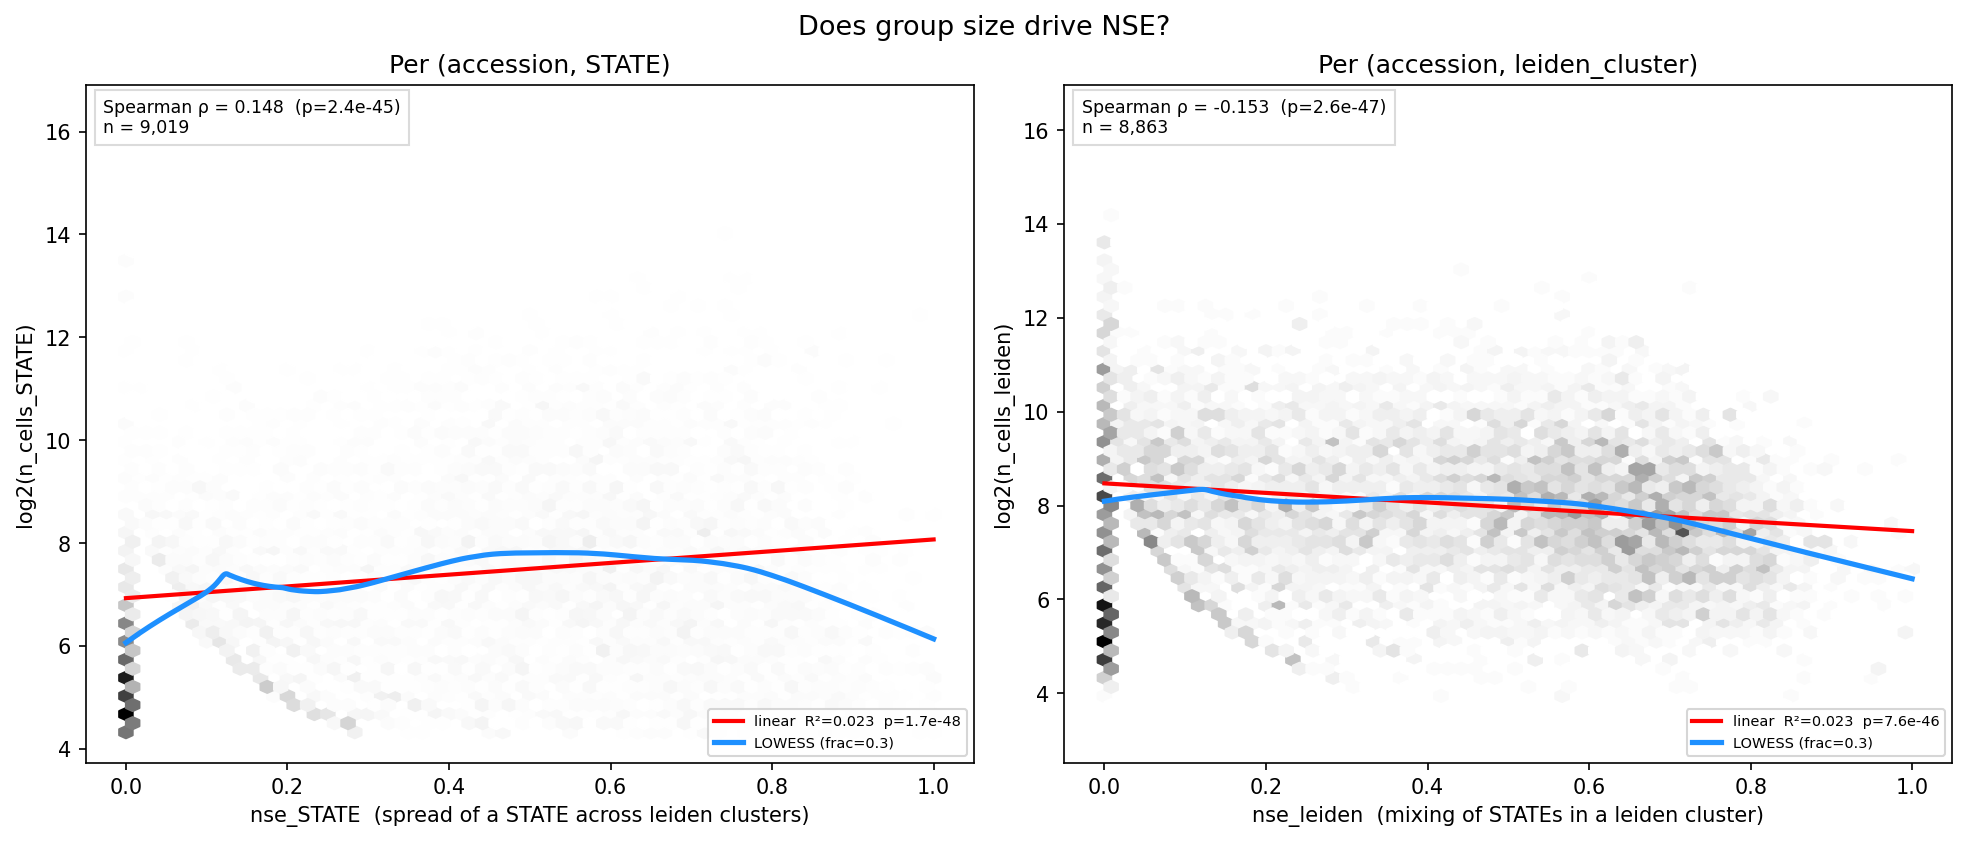
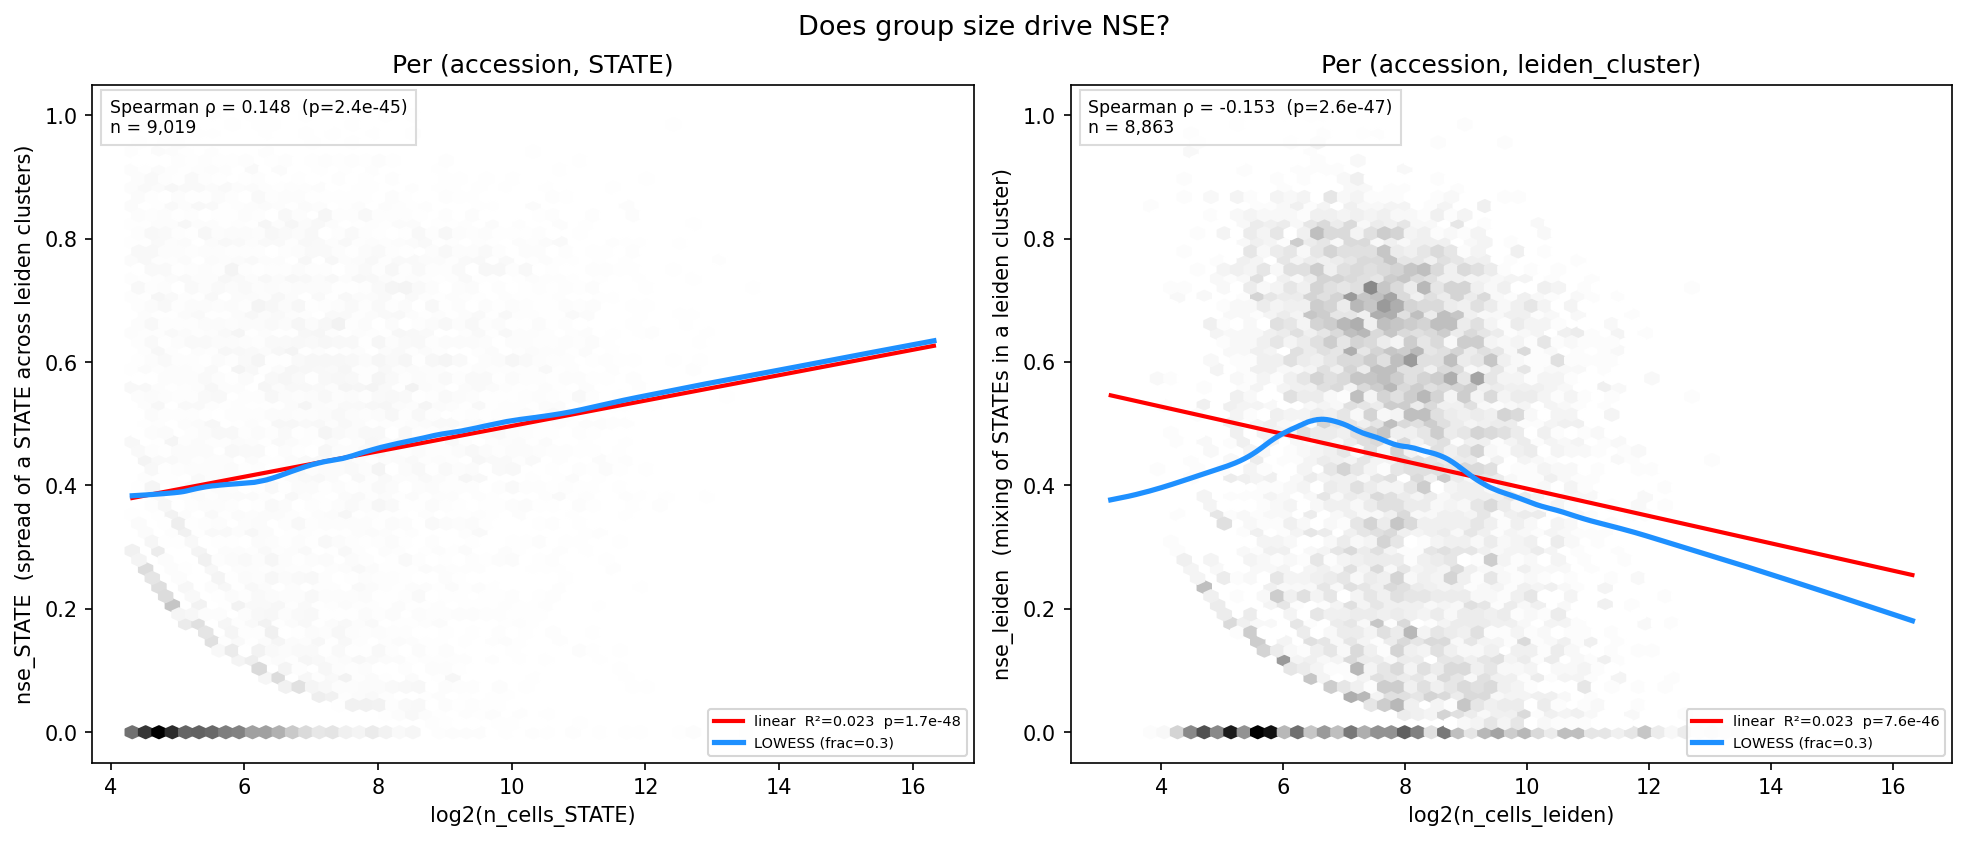
update phrasing in final section

diff --git a/writeups/state_vs_leiden/README.md b/writeups/state_vs_leiden/README.md
@@ -1,6 +1,6 @@
-# STATE vs leiden disagreement
+# STATE vs Leiden disagreement
 
-Exploratory analysis on `STATE x leiden_cluster` matrices produced by [`pipelines/cluster_stats.py`](../../pipelines/cluster_stats.py), run `cluster_stats/clustered_20260509`. Source matrices live in [`output/cluster_stats/clustered_20260509/cluster_stats.json`](../../output/cluster_stats/clustered_20260509/cluster_stats.json).
+Exploratory analysis on `STATE x leiden_cluster` matrices produced by `[pipelines/cluster_stats.py](../../pipelines/cluster_stats.py)`, run `cluster_stats/clustered_20260509`. Source matrices live in `[output/cluster_stats/clustered_20260509/cluster_stats.json](../../output/cluster_stats/clustered_20260509/cluster_stats.json)`.
 
 Leiden clusters from the clustering pipeline are passed to CyteType for annotation. STATE labels are treated as weak priors, informing which clustering resolution is selected. This report showcases the agreement between STATE clusters and STATE-informed leiden clusters on a cluster-by-cluster basis.
 
@@ -10,28 +10,26 @@ Analysis script: [state_vs_leiden.py](state_vs_leiden.py).
 
 ## Leiden cluster size does not inform entropy of STATE labels within Leiden clusters
 
-<!-- <img src=".figs/cluster_size_lognormal_fit.png" width="600"/>
 
-Lognormal fit of leiden cluster sizes pooled across accessions, plus the KS goodness-of-fit statistic. -->
 
-<img src=".figs/nse_leiden_kde_by_size_quartile.png" width="500"/>
+
 
 KDE of STATE-mixing NSE (normalized Shannon entropy) within each Leiden cluster, split by log2(cluster size) quartile. The distribution of NSE is consistent across Leiden cluster quartiles, suggesting that the number of cells in a Leiden cluster does not influence the entropy of STATE labels in the cluster. Nonetheless, larger Leiden clusters appear to exhibit low STATE label entropy than small Leiden clusters, as shown by the clear separation by quartile of the KDE at low NSE. This suggests that on the whole, a large Leiden cluster may be less likely to contain evenly mixed STATE labels than a small Leiden cluster.
 
-<!-- <img src=".figs/nse_vs_size_hexbin.png" width="700"/>
 
-NSE against log2(group size) for STATEs (left) and leiden clusters (right) with linear and LOWESS fits and Spearman rho shows that a cluster's size has a limited impact on NSE (normalized Shannon entropy). -->
 
-<!-- <img src=".figs/nse_state_kde_by_nse_leiden_bin.png" width="500"/>
 
-Distribution of `nse_STATE` conditioned on the NSE tertile of the leiden cluster it appears in. -->
 
-## Assessment of mixing across STATE labels
+## Two complementary views on STATE-Leiden agreement
 
-<img src=".figs/state_behavior_across_nse_tertiles.png" width="700"/>
+The next two figures are both organized one row per STATE, but they pivot on different entropies and answer different questions.
 
-Per-STATE share of cells and clusters that fall in low, mid, and high NSE leiden tertiles. STATEs sorted by share of cells in the low tertile. A STATE label that appears in 
 
-<img src=".figs/nse_state_by_state_boxplots.png" width="600"/>
 
-Per-STATE distribution of NSE (normalized Shannon entropy) across accessions, sorted by median (top) and variance (bottom), colored by cell category. STATE clusters such as neutrophils and basophils exhibit low NSE and low variance of NSE, meaning that 
+Per-STATE distribution of `nse_STATE` (entropy across Leiden clusters within a single accession), one observation per accession, sorted by median (top) and variance (bottom) and colored by cell category. A STATE with low median NSE and low variance, like neutrophils or basophils, consistently concentrates in only a few Leiden clusters across accessions. That makes the STATE easy for a clustering-based annotator to "find", provided the cluster it ends up in is also dominated by it.
+
+
+
+Per-STATE share of cells (left) and Leiden clusters (right) that fall in low, mid, and high `nse_leiden` tertiles, sorted by share of cells in the low tertile. A STATE near the top sits in Leiden clusters that are dominated by a single STATE label, so a program like CyteType, which only sees the cluster-level expression, has a clear signal to work with. A STATE near the bottom sits in mixed clusters, and CyteType may be "blind" to it because the cluster's expression is driven by whichever STATE dominates that mix.
+
+Read together: the boxplots tell you whether a STATE *lands in few clusters*, the tertile bars tell you whether *those clusters are clean*. Both need to hold for CyteType to recover the STATE; if either fails, the STATE is at risk of being mislabelled or absorbed.

diff --git a/docs/exploratory_depreciated/state_vs_leiden/README.md b/docs/exploratory_depreciated/state_vs_leiden/README.md
@@ -1,0 +1,33 @@
+# STATE vs leiden clustering assessment
+
+Exploratory analysis on `STATE x leiden_cluster` matrices produced by [`pipelines/cluster_stats.py`](../../../pipelines/cluster_stats.py), run `cluster_stats/clustered_20260509`. Source matrices live in [`output/cluster_stats/clustered_20260509/cluster_stats.json`](../../../output/cluster_stats/clustered_20260509/cluster_stats.json).
+
+Leiden clusters from the clustering pipeline are passed to CyteType for annotation. STATE labels are treated as weak priors during clustering, informing the clustering resolution selection process. The goal here is to flag cell types whose STATE labels overlap poorly with leiden clusters, since those are the ones most likely to disagree with CyteType.
+
+Analysis script: [state_vs_leiden.py](state_vs_leiden.py).
+
+## Figures
+
+<!-- Lognormal fit of leiden cluster sizes pooled across accessions, plus the KS goodness-of-fit statistic.
+
+<img src=".figs/cluster_size_lognormal_fit.png" width="600"/> -->
+
+KDE of STATE-mixing NSE within each cluster, split by log2(cluster size) quartile, with a one-way ANOVA across quartiles.
+
+<img src=".figs/nse_leiden_kde_by_size_quartile.png" width="500"/>
+
+NSE against log2(group size) for STATEs (left) and leiden clusters (right) with linear and LOWESS fits and Spearman rho.
+
+<img src=".figs/nse_vs_size_hexbin.png" width="700"/>
+
+Distribution of `nse_STATE` conditioned on the NSE tertile of the leiden cluster it appears in.
+
+<!-- <img src=".figs/nse_state_kde_by_nse_leiden_bin.png" width="500"/>
+
+Per-STATE share of cells and clusters that fall in low, mid, and high NSE leiden tertiles. STATEs sorted by share of cells in the low tertile. -->
+
+<!-- <img src=".figs/state_behavior_across_nse_tertiles.png" width="700"/>
+
+Per-STATE distribution of `nse_STATE` across accessions, sorted by median (top) and variance (bottom), colored by cell category. -->
+
+<img src=".figs/nse_state_by_state_boxplots.png" width="600"/>
